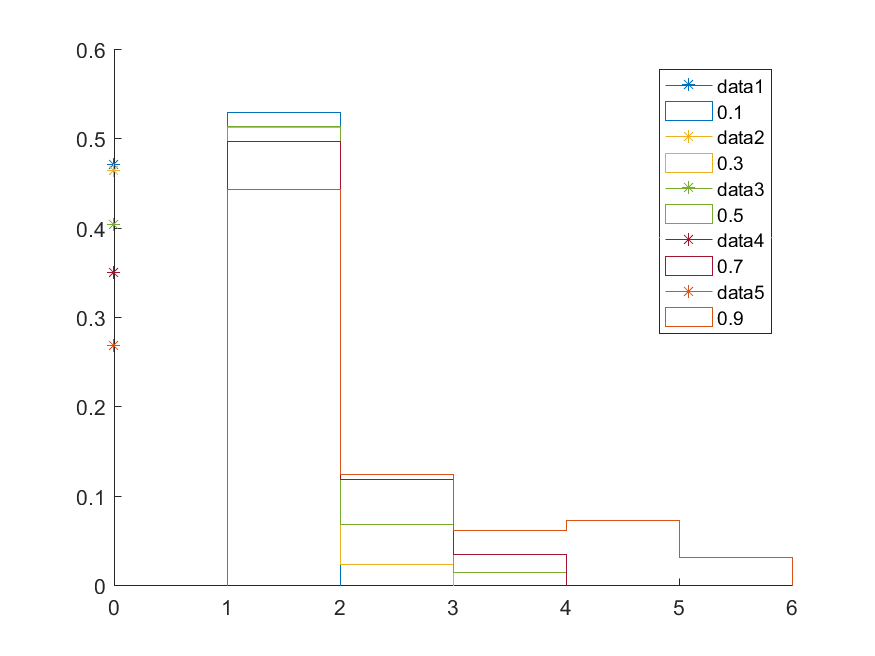
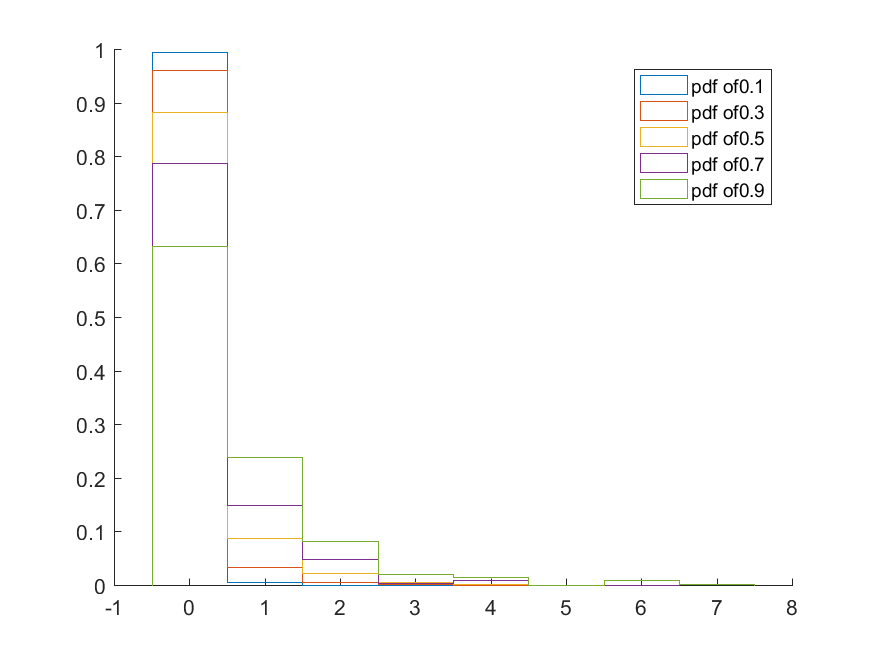
Matlab scripts for time/length analysis on queueStudy

diff --git a/simulations/queueStudy/computeTimePDF.m b/simulations/queueStudy/computeTimePDF.m
@@ -1,10 +1,9 @@
-function [subsmpl] = computePDF(config, rho, width, pdffig)
+function [subsmpl] = computeTimePDF(config, rho, width, pdffig)
 	tot_sample = extractTotSample(config, rho);
 	subsmpl = subsample(tot_sample, ceil(log2(length(tot_sample)) - ceil( 12 - str2double(rho)*6)));
     
-    if( ~( isempty( regexp(config, 'Time', 'once')) ) )
-        subsmpl = subsmpl / 60;
-    end
+    %Rescale from seconds to minutes
+    subsmpl = subsmpl / 60;
     
 	figure('Name', strcat('Autocorr for ', config, ' ', string(rho).char));
 	autocorr(subsmpl);
@@ -25,10 +24,12 @@ function [subsmpl] = computePDF(config, rho, width, pdffig)
     figure(pdffig);
 	hold on;
     
-    p = plot(0, p_zero);
+    p_label = strcat(string('p(0) of '), rho);
+    p = plot(0, p_zero, 'DisplayName' , p_label.char );
     p.Marker = '*';
     
-    h = histogram(subsmpl_nozero, 'DisplayName', rho, 'DisplayStyle', 'stairs');
+    hist_label = strcat(string('p(x | x > 0) of '), rho);
+    h = histogram(subsmpl_nozero, 'DisplayName', hist_label.char , 'DisplayStyle', 'stairs');
     h.EdgeColor = p.Color;
     h.BinWidth = width;
     h.BinCounts = ( h.BinCounts / sum(h.BinCounts)) * ( 1 - p_zero);

diff --git a/simulations/queueStudy/computeLengthPDF.m b/simulations/queueStudy/computeLengthPDF.m
@@ -1,0 +1,30 @@
+function [subsmpl] = computeLengthPDF(config, rho, pdffig)
+	tot_sample = extractTotalLengthSample(config, rho);
+    subsmpl = subsample(tot_sample, ceil(log2(length(tot_sample)) - ceil( 12 - str2double(rho)*6)));
+    
+	figure('Name', strcat('Autocorr for ', config, ' ', string(rho).char));
+	autocorr(subsmpl(:, 1));
+      
+    figure(pdffig);
+	hold on;
+    
+    subsmpl = sortrows(subsmpl);
+    hist_data = [];
+    current_value = subsmpl(1, :);
+    for idx = 2 : size(subsmpl, 1)
+    	if subsmpl(idx, 1) == current_value(1, 1)
+    		current_value(1, 2) = current_value(1, 2) + subsmpl(idx, 2);
+    		continue;
+		else
+			hist_data = [hist_data; current_value];
+			current_value = subsmpl(idx, :);
+		end
+	end	
+	hist_data = [hist_data; current_value];
+    
+    hist_label = strcat(string('pdf of '), rho);
+    h = histogram(hist_data(:, 1), 'DisplayName', hist_label.char , 'DisplayStyle', 'stairs', 'Normalization', 'probability');
+    for idx = 1 : size(hist_data, 1)
+        h.BinCounts(round( hist_data(idx, 1) ) + 1) = hist_data(idx, 2);
+    end
+end

diff --git a/simulations/queueStudy/convertLengthSample.m b/simulations/queueStudy/convertLengthSample.m
@@ -1,0 +1,24 @@
+function [converted_sample] = convertLengthSample(sample)
+    first_parse = [];
+    for idx = 1 : ( size(sample, 1) - 1 )
+        if sample(idx, 1) == sample(idx + 1, 1)
+        	continue;
+    	else
+    		first_parse = [first_parse; sample(idx, 2) (sample(idx + 1, 1) - sample(idx, 1)) ];
+		end
+    end
+
+    converted_sample = [];
+    
+    current_value = first_parse(1, :);
+    for idx = 2 : size(first_parse, 1)
+    	if first_parse(idx, 1) == current_value(1, 1)
+    		current_value(1, 2) = current_value(1, 2) + first_parse(idx, 2);
+    		continue;
+		else
+			converted_sample = [converted_sample; current_value];
+			current_value = first_parse(idx, :);
+		end
+	end	
+	converted_sample = [converted_sample; current_value];
+end

diff --git a/simulations/queueStudy/extractLengthSamples.m b/simulations/queueStudy/extractLengthSamples.m
@@ -1,0 +1,16 @@
+function [ samples ] = extractLengthSamples( config, rho )
+%UNTITLED Summary of this function goes here
+%   Detailed explanation goes here
+    cd(strcat('rho', string(rho).char, '/results'))
+        run(strcat(config, '.m'));
+        samples = struct();
+        for idx = 1 : vectors.size
+            vector_name = strcat(config, '_', string(idx-1).char);
+            x = vectors.(vector_name);
+            sample = convertLengthSample(x);            
+            samples.(strcat('v', string(idx).char)) = sample;
+        end
+        samples.size = vectors.size;
+    cd ../..
+end
+

diff --git a/simulations/queueStudy/lengthPDF.m b/simulations/queueStudy/lengthPDF.m
@@ -1,4 +1,4 @@
-function [pdffig] = pdffunction(config, width)
+function [pdffig] = lengthPDF(config)
     %rhos = ['0.1'; '0.2'; '0.3'; '0.4'; '0.5'; '0.6'; '0.7'; '0.8'; '0.9'];
     rhos = ['0.1'; '0.3'; '0.5'; '0.7'; '0.9'];
     pdffig = figure('Name',strcat(config, ' pdfs'));
@@ -6,7 +6,7 @@ function [pdffig] = pdffunction(config, width)
     rng(19, 'twister');
 
     for idx = 1 : length(rhos)
-        computePDF(config, rhos(idx, :), width, pdffig);	
+        computeLengthPDF(config, rhos(idx, :), pdffig);	
     end
 
     figure(pdffig);

diff --git a/simulations/queueStudy/extractTotSample.m b/simulations/queueStudy/extractTotSample.m
@@ -8,8 +8,8 @@ function [ tot_sample ] = extractTotSample(config, rho)
         for idx = 1 : vectors.size
             vector_name = strcat(config, '_', string(idx-1).char);
             x = vectors.(vector_name);
-            x = x(:, 2).';
-            tot_sample = [tot_sample, x];
+            x = x(:, 2);
+            tot_sample = [tot_sample; x];
             
             if length(tot_sample) > 5e4 && idx > 10
                 break;

diff --git a/simulations/queueStudy/timePDF.m b/simulations/queueStudy/timePDF.m
@@ -1,0 +1,14 @@
+function [pdffig] = timePDF(config, width)
+    %rhos = ['0.1'; '0.2'; '0.3'; '0.4'; '0.5'; '0.6'; '0.7'; '0.8'; '0.9'];
+    rhos = ['0.1'; '0.3'; '0.5'; '0.7'; '0.9'];
+    pdffig = figure('Name',strcat(config, ' pdfs'));
+
+    rng(19, 'twister');
+
+    for idx = 1 : length(rhos)
+        computeTimePDF(config, rhos(idx, :), width, pdffig);	
+    end
+
+    figure(pdffig);
+    legend('show');
+end

diff --git a/simulations/queueStudy/extractTotalLengthSample.m b/simulations/queueStudy/extractTotalLengthSample.m
@@ -1,0 +1,10 @@
+function [ tot_sample ] = extractTotalLengthSample( config, rho )
+%EXTRACTTOTALLENGTHSAMPLE Summary of this function goes here
+%   Detailed explanation goes here
+    samples = extractLengthSamples(config, rho);
+    tot_sample = [];
+    for idx = 1 : samples.size
+        tot_sample = [tot_sample; samples.(strcat('v', string(idx).char))];
+    end
+end
+

diff --git a/simulations/queueStudy/subsample.m b/simulations/queueStudy/subsample.m
@@ -5,7 +5,7 @@ function [subsmpl] = subsample(sample, k)
     subsmpl = [];
     for idx = 1:length(sample)
         if( rand() <= 1/(2^k))
-            subsmpl = [subsmpl, sample(idx)];
+            subsmpl = [subsmpl; sample(idx, :)];
         end
     end
 end
